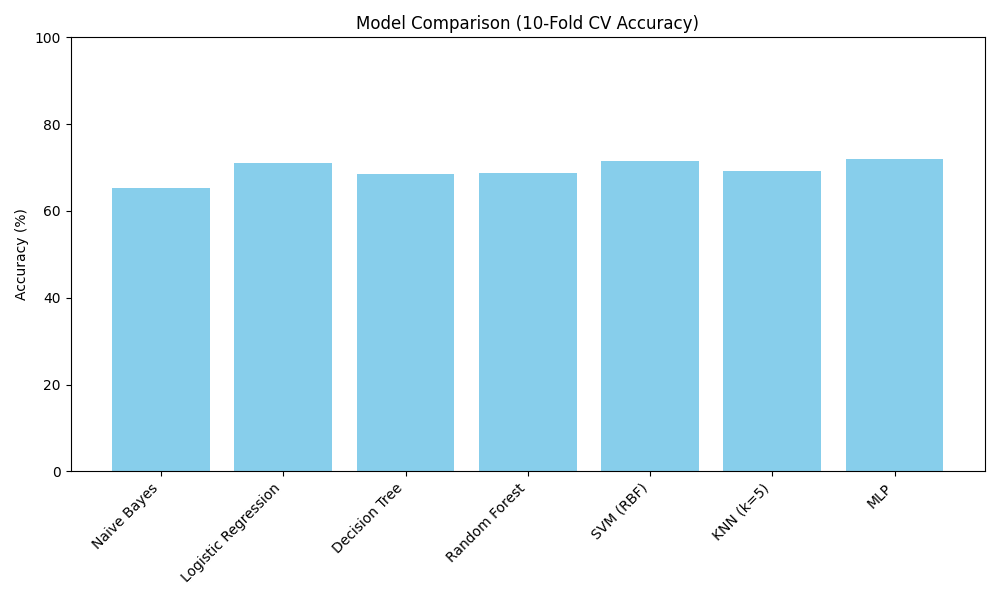
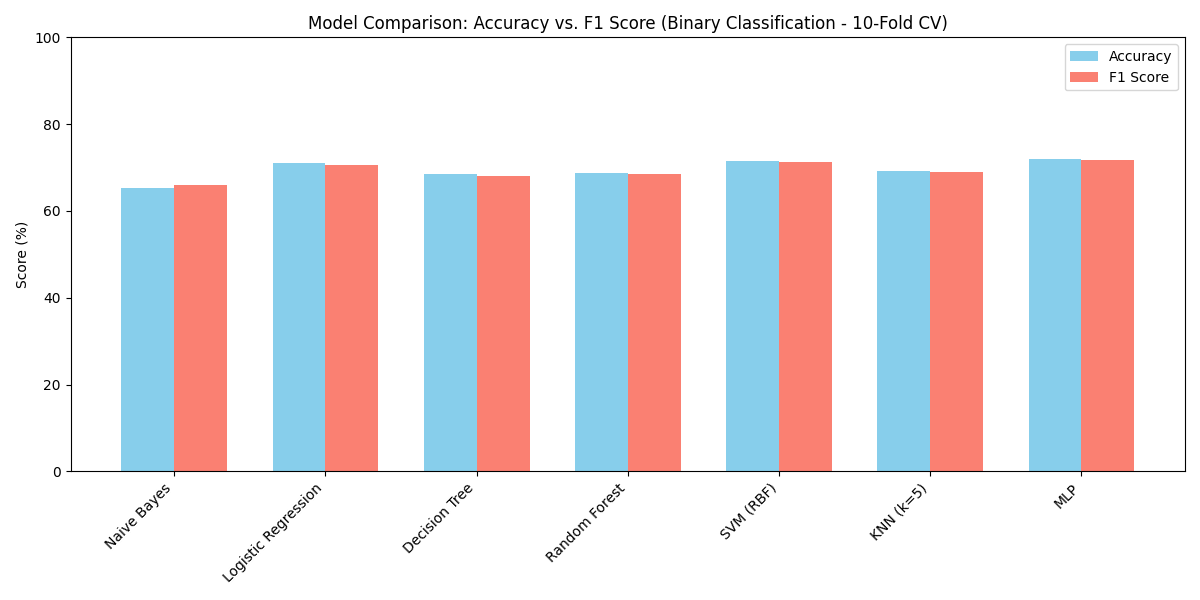
Update F1 Score

diff --git a/models.py b/models.py
@@ -8,7 +8,7 @@ from sklearn.neighbors import KNeighborsClassifier
 from sklearn.naive_bayes import GaussianNB
 
 from sklearn.model_selection import KFold
-from sklearn.metrics import accuracy_score
+from sklearn.metrics import accuracy_score, f1_score
 import pandas as pd
 import numpy as np
 
@@ -20,7 +20,6 @@ df = df.values
 # Tách features và labels
 X = df[:, :-1]
 y = df[:, -1]
-
 
 # Danh sách các mô hình
 models = {
@@ -35,30 +34,49 @@ models = {
 
 # 10-fold cross-validation
 kf = KFold(n_splits=10, shuffle=True, random_state=42)
-# Dictionary lưu kết quả accuracy của từng mô hình
 model_accuracies = {}
+model_f1_scores = {}
 
 for model_name, model in models.items():
     accuracies = []
+    f1_scores = []
     for train_index, test_index in kf.split(X):
         X_train, X_test = X[train_index], X[test_index]
         y_train, y_test = y[train_index], y[test_index]
 
         model.fit(X_train, y_train)
         y_pred = model.predict(X_test)
-        accuracies.append(accuracy_score(y_test, y_pred))
 
-    mean_acc = np.mean(accuracies)
-    model_accuracies[model_name] = mean_acc * 100
-    print(f"{model_name}: {mean_acc * 100:.2f}%")
+        # Binary classification nên dùng average="binary"
+        accuracies.append(accuracy_score(y_test, y_pred))
+        f1_scores.append(f1_score(y_test, y_pred, average="weighted"))
+
+    model_accuracies[model_name] = np.mean(accuracies) * 100
+    model_f1_scores[model_name] = np.mean(f1_scores) * 100
+
+    print(
+        f"{model_name}: Accuracy = {model_accuracies[model_name]:.2f}%, F1 Score = {model_f1_scores[model_name]:.2f}%"
+    )
 
 # Vẽ biểu đồ
-plt.figure(figsize=(10, 6))
-plt.bar(model_accuracies.keys(), model_accuracies.values(), color="skyblue")
-plt.ylabel("Accuracy (%)")
-plt.title("Model Comparison (10-Fold CV Accuracy)")
-plt.xticks(rotation=45, ha="right")
+labels = list(model_accuracies.keys())
+accuracy_vals = [model_accuracies[name] for name in labels]
+f1_vals = [model_f1_scores[name] for name in labels]
+
+x = np.arange(len(labels))
+width = 0.35
+
+plt.figure(figsize=(12, 6))
+plt.bar(x - width / 2, accuracy_vals, width, label="Accuracy", color="skyblue")
+plt.bar(x + width / 2, f1_vals, width, label="F1 Score", color="salmon")
+
+plt.ylabel("Score (%)")
+plt.title(
+    "Model Comparison: Accuracy vs. F1 Score (Binary Classification - 10-Fold CV)"
+)
+plt.xticks(x, labels, rotation=45, ha="right")
 plt.ylim(0, 100)
+plt.legend()
 plt.tight_layout()
 
 # Lưu hình
